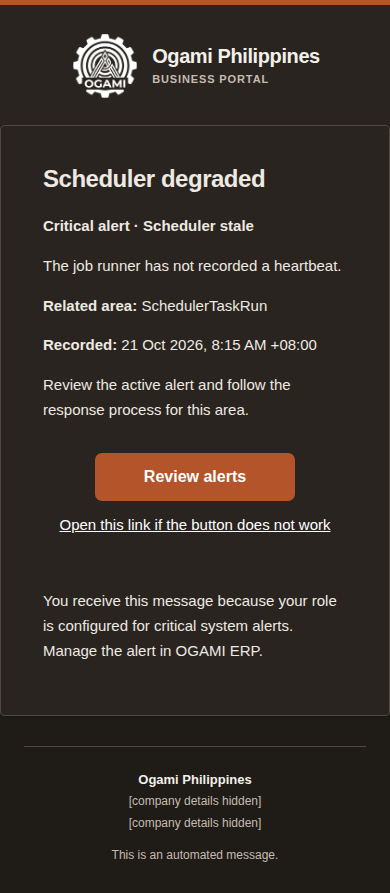
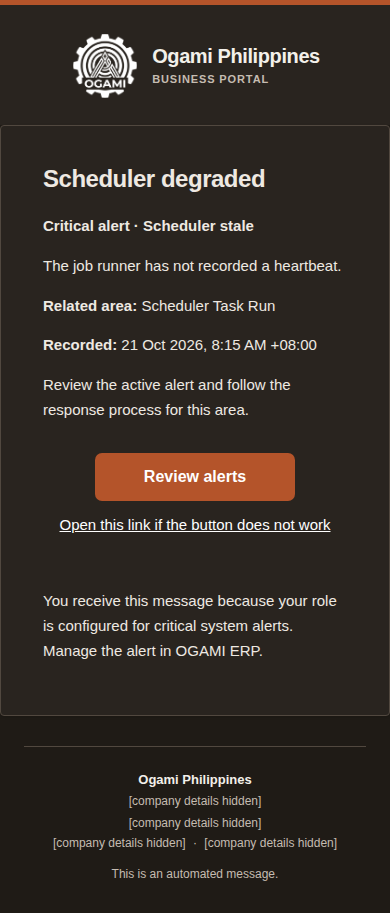
fix(email): complete critical alert review

diff --git a/api/tests/Feature/Email/CriticalAlertEmailDesignTest.php b/api/tests/Feature/Email/CriticalAlertEmailDesignTest.php
@@ -50,7 +50,7 @@ class CriticalAlertEmailDesignTest extends TestCase
         $this->assertStringContainsString('['.app(EmailBrandingService::class)->data()['name'].'] Critical alert: Scheduler degraded', $message->getSubject());
         $this->assertStringContainsString('Scheduler degraded', $html);
         $this->assertStringContainsString('Scheduler stale', $html);
-        $this->assertStringContainsString('Related area: Scheduler Task Run', $text);
+        $this->assertStringContainsString('Scheduler Task Run', $text);
         $this->assertStringNotContainsString('SchedulerTaskRun', $text);
         $this->assertStringContainsString('21 Oct 2026, 8:15 AM +08:00', $html);
         $this->assertStringNotContainsString('987654', $html);

diff --git a/docs/emails/PROGRESS.md b/docs/emails/PROGRESS.md
@@ -69,7 +69,7 @@ Updated: 2026-10-21
 - EF-051–053 scheduled-export authorization fixes: complete in draft PR #266, stacked on #265. Scheduled files now go only to the active schedule owner's current email; persisted legacy recipient lists cannot redirect delivery, and queued jobs recheck the address before transport. The page relies on authenticated app shell plus API owner/module checks, so non-HR export owners can reach it. `ExportAuthorizationTest`, `ScheduledExportAuthorizationTest`, and `ScheduledExportExecutionTest`: 20 passed, 96 assertions. SPA typecheck and targeted lint, PHP syntax, targeted PHPStan, and `git diff --check` passed. Array mailer used; no real email sent.
 - EF-054–055 / E-025 scheduled-export template and retry safety: implementation complete in draft PR #267, stacked on #266. Configured brand subject, readable export area/format, run-time timestamp, exact filename, authenticated SPA schedule CTA, shared shell, generated text alternative, and stable per-occurrence delivery key. Combined mail/recipient/scheduler coverage: 23 tests; rerun with idempotency assertion pending. HTML 22,086 bytes. Four Chromium screenshots reviewed at 1440px/390px in light/dark; no overflow/missing logo, company details redacted. Array mailer used; no real email sent. Real email clients remain unverified.
 - EF-056: supplier schedule cancellation audience now uses effective `purchasing.po.approve` permissions in draft PR #268. Added regression test for role permissions, individual grants/revocations, and inactive accounts. Local PHP/Docker test services unavailable; PR CI pending. E-023 record-scope and dynamic-link audits remain open.
-- EF-057 / E-026 critical alert: shared branded shell, configured subject, readable labels, numeric Manila offset, alert-list CTA, and no raw entity ID. Visual review found the related-area field exposed a raw PHP model name; EF-110 now adds word spacing and regression assertions. Current PR screenshots predate this label change; refresh and focused test pending. PR #276 CI also failed on a hard-coded supplier portal URL assertion; dynamic-config correction committed locally as `d71df99b`, awaiting the active API workflow before push. No email sent. See [E-026-critical-alert.md](E-026-critical-alert.md). Draft PR #276 is stacked on #274.
+- EF-057 / E-026 critical alert: shared branded shell, configured subject, readable labels, numeric Manila offset, alert-list CTA, no raw entity ID, and effective `alerts.view` recipient filtering. EF-110 humanizes the related area. `CriticalAlertEmailDesignTest`: 1 test, 11 assertions passed on `ogami_test`, with mailer `array`. Chromium review refreshed four 1440px/390px light/dark captures from Laravel `MailMessage`; logos loaded and document width matched viewport. Company legal/contact values are redacted. PR #276's hard-coded supplier portal URL assertion fix is committed locally as `d71df99b`; it has not been pushed. EF-115 Markdown/URL sanitization remains a separate security fix. No email sent. See [E-026-critical-alert.md](E-026-critical-alert.md). Draft PR #276 is stacked on #274.
 - EF-058: SPA dependency lockfile updated to Vite 7.3.7 and `follow-redirects` 1.16.1 in draft PR #271 after the existing CI audit failed. `npm audit` reports zero vulnerabilities; SPA lint, typecheck, 1,140 Vitest tests, and production build pass. No application source changed.
 - EF-059 / E-027–028 production summaries: templates now use the shared shell, configured subject branding, readable statuses, bounded daily details, and text alternatives. Focused render/escaping tests added. Local PHP and browser verification pending; no mail sent.
 - E-029–E-033 account security: temporary-password mail bodies replaced with expiring, single-use setup/reset links; legacy queued Auth welcome/reset payloads ignore their old password and get a fresh link. Admin and HR triggers retain existing recipients and timing; authorized Admin UI temporary-password response remains unchanged. Focused checks passed: 32 tests / 216 assertions on isolated `ogami_test_email_e029_033`, `MAIL_MAILER=array`; updated MIME/sink class rerun also passed (3 tests / 15 assertions). All four active variants rendered and 16 Chromium screenshots inspected at desktop/mobile and light/dark. No real email sent. Screenshot HTML/text body render sizes: 18–19 KB / 434–460 bytes. See [E-029-033-account-security.md](E-029-033-account-security.md). Draft PR [#273](https://github.com/kwat0g/kwatog/pull/273) is stacked on #272; CI remains pending.

diff --git a/docs/emails/E-026-critical-alert.md b/docs/emails/E-026-critical-alert.md
@@ -11,16 +11,16 @@
 
 The subject uses configured email branding and a CR/LF-scrubbed, length-limited alert title. The body shows the alert's stored title, message, human-readable type/severity and related area, plus creation time converted to Asia/Manila. The related-area label is derived from the entity model name with word spacing; internal entity database IDs remain omitted. The CTA opens the authenticated SPA alert list.
 
-The shared Markdown shell supplies the configured logo variants, company identity/footer, preheader, responsive layout, and plain-text alternative. Blade escapes alert text.
+The shared Markdown shell supplies the configured logo variants, company identity/footer, preheader, responsive layout, and plain-text alternative. Blade escapes HTML; EF-115 separately tracks Markdown syntax and external URL neutralization.
 
 ## Review and verification
 
 This is an internal operational notice. Confirm configured alert roles match operational ownership. No personal-data or statutory content is intentionally included.
 
-`CriticalAlertEmailDesignTest`: 1 test, 9 assertions passed on an isolated test database. It verifies the Manila display as `+08:00`, omission of the internal entity ID, SPA alert link, and HTML size. A rendered `MailChannel` message measured 19,473 HTML bytes and 622 plain-text bytes. Mailer was `array`; no real email sent.
+`CriticalAlertEmailDesignTest`: 1 test, 11 assertions passed on `ogami_test`. It verifies the Manila display as `+08:00`, humanized related area, omission of the internal entity ID, SPA alert link, and HTML size below 102,400 bytes. Mailer was `array`; no real email sent.
 
-EF-110 later humanized the related-area label and added regression assertions. That changed version has not been rerun yet. The four PNG screenshots below predate the label fix and need refresh before the email can be marked visually complete.
+Rendered the Laravel `MailMessage` in Chromium at 1440px desktop and 390px mobile, in light/dark. All logo images loaded; document width matched viewport at both sizes; CTA and related-area text stayed readable. CID logos were mapped to the same image assets as data URIs for browser preview. Company contact/legal values are redacted in artifacts: [desktop light](screenshots/e026-critical-alert-desktop-light.png), [desktop dark](screenshots/e026-critical-alert-desktop-dark.png), [mobile light](screenshots/e026-critical-alert-mobile-light.png), [mobile dark](screenshots/e026-critical-alert-mobile-dark.png), [plain text](screenshots/e026-critical-alert.txt).
 
-Inspected Chromium screenshots at 1440px desktop and 390px mobile in light/dark. The message stays readable without clipping; company legal/address values are redacted in artifacts: [desktop light](screenshots/e026-critical-alert-desktop-light.png), [desktop dark](screenshots/e026-critical-alert-desktop-dark.png), [mobile light](screenshots/e026-critical-alert-mobile-light.png), [mobile dark](screenshots/e026-critical-alert-mobile-dark.png), [plain text](screenshots/e026-critical-alert.txt).
+EF-115 tracks Markdown syntax and external URL neutralization in a separate security fix branch. Real email clients remain unverified.
 
 Real email clients remain unverified.

diff --git a/docs/emails/FINDINGS.md b/docs/emails/FINDINGS.md
@@ -67,6 +67,7 @@ Date: 2026-10-20. Static findings only; reachability and runtime impact remain u
 | EF-061 | PHPUnit email tests have no default sender for the array transport | CI on draft PR #272 returned HTTP 500 when a synchronous queued notification reached Symfony's array transport without a `From` header. `MAIL_MAILER=array` and the sink recipient were configured, but `MAIL_FROM_ADDRESS` was empty. | Fixed in draft PR #275 by forcing `no-reply@example.test` and `Ogami Test` in PHPUnit. The failing sales-response test passes locally; PR #274 carries the same test-only settings for its own test branch. |
 | EF-062 | Critical-alert test fixture mass-assigns a guarded timestamp and email shows ambiguous timezone abbreviation | `CriticalAlertEmailDesignTest` passed `created_at` through `Alert::query()->create()`, but `created_at` is not fillable. The email formatter used `T`, which produced an ambiguous abbreviation rather than a numeric Manila offset. | Fixed in draft PR #276: assign the fixture timestamp after model creation and format the email with `P` (`+08:00`). The focused HTML/text test passes. |
 
-| EF-110 | Critical alert email exposed an internal model class name | The related-area field rendered `SchedulerTaskRun` directly, which is a PHP model name rather than a reader-facing label. | Apply word spacing to the model basename and assert the rendered text. Refresh visual artifacts before declaring E-026 complete. |
+| EF-110 | Critical alert email exposed an internal model class name | The related-area field rendered `SchedulerTaskRun` directly, which is a PHP model name rather than a reader-facing label. | Fixed in draft PR #276 with `Str::headline()` and a rendered-text assertion; desktop/mobile light/dark captures were refreshed. |
+| EF-111 | Critical alert email audience ignored individual `alerts.view` revocations | `AlertEngineService` selected active users by configured role but did not check effective access to the alert page linked in the email. | E-026 filters recipients through `User::hasPermission('alerts.view')`; regression coverage verifies a role member with a revoked permission receives no alert email. |
 
 Findings were recorded during discovery; subsequent email PRs address the issues noted. EF-028, EF-031–EF-038 are fixed in their respective draft PRs; EF-040 is fixed in E-022 PR #254. EF-041 and EF-043 are fixed in PR #256; EF-044 is fixed in draft PR #257; EF-045 is fixed in draft PR #258; EF-046 is fixed in draft PR #259; EF-047's test mismatches and missing dunning title are fixed across draft PRs #260–#262; and EF-056 is fixed in draft PR #268. EF-039 remains open; EF-042 remains partially open pending E-023 caller visibility review.
